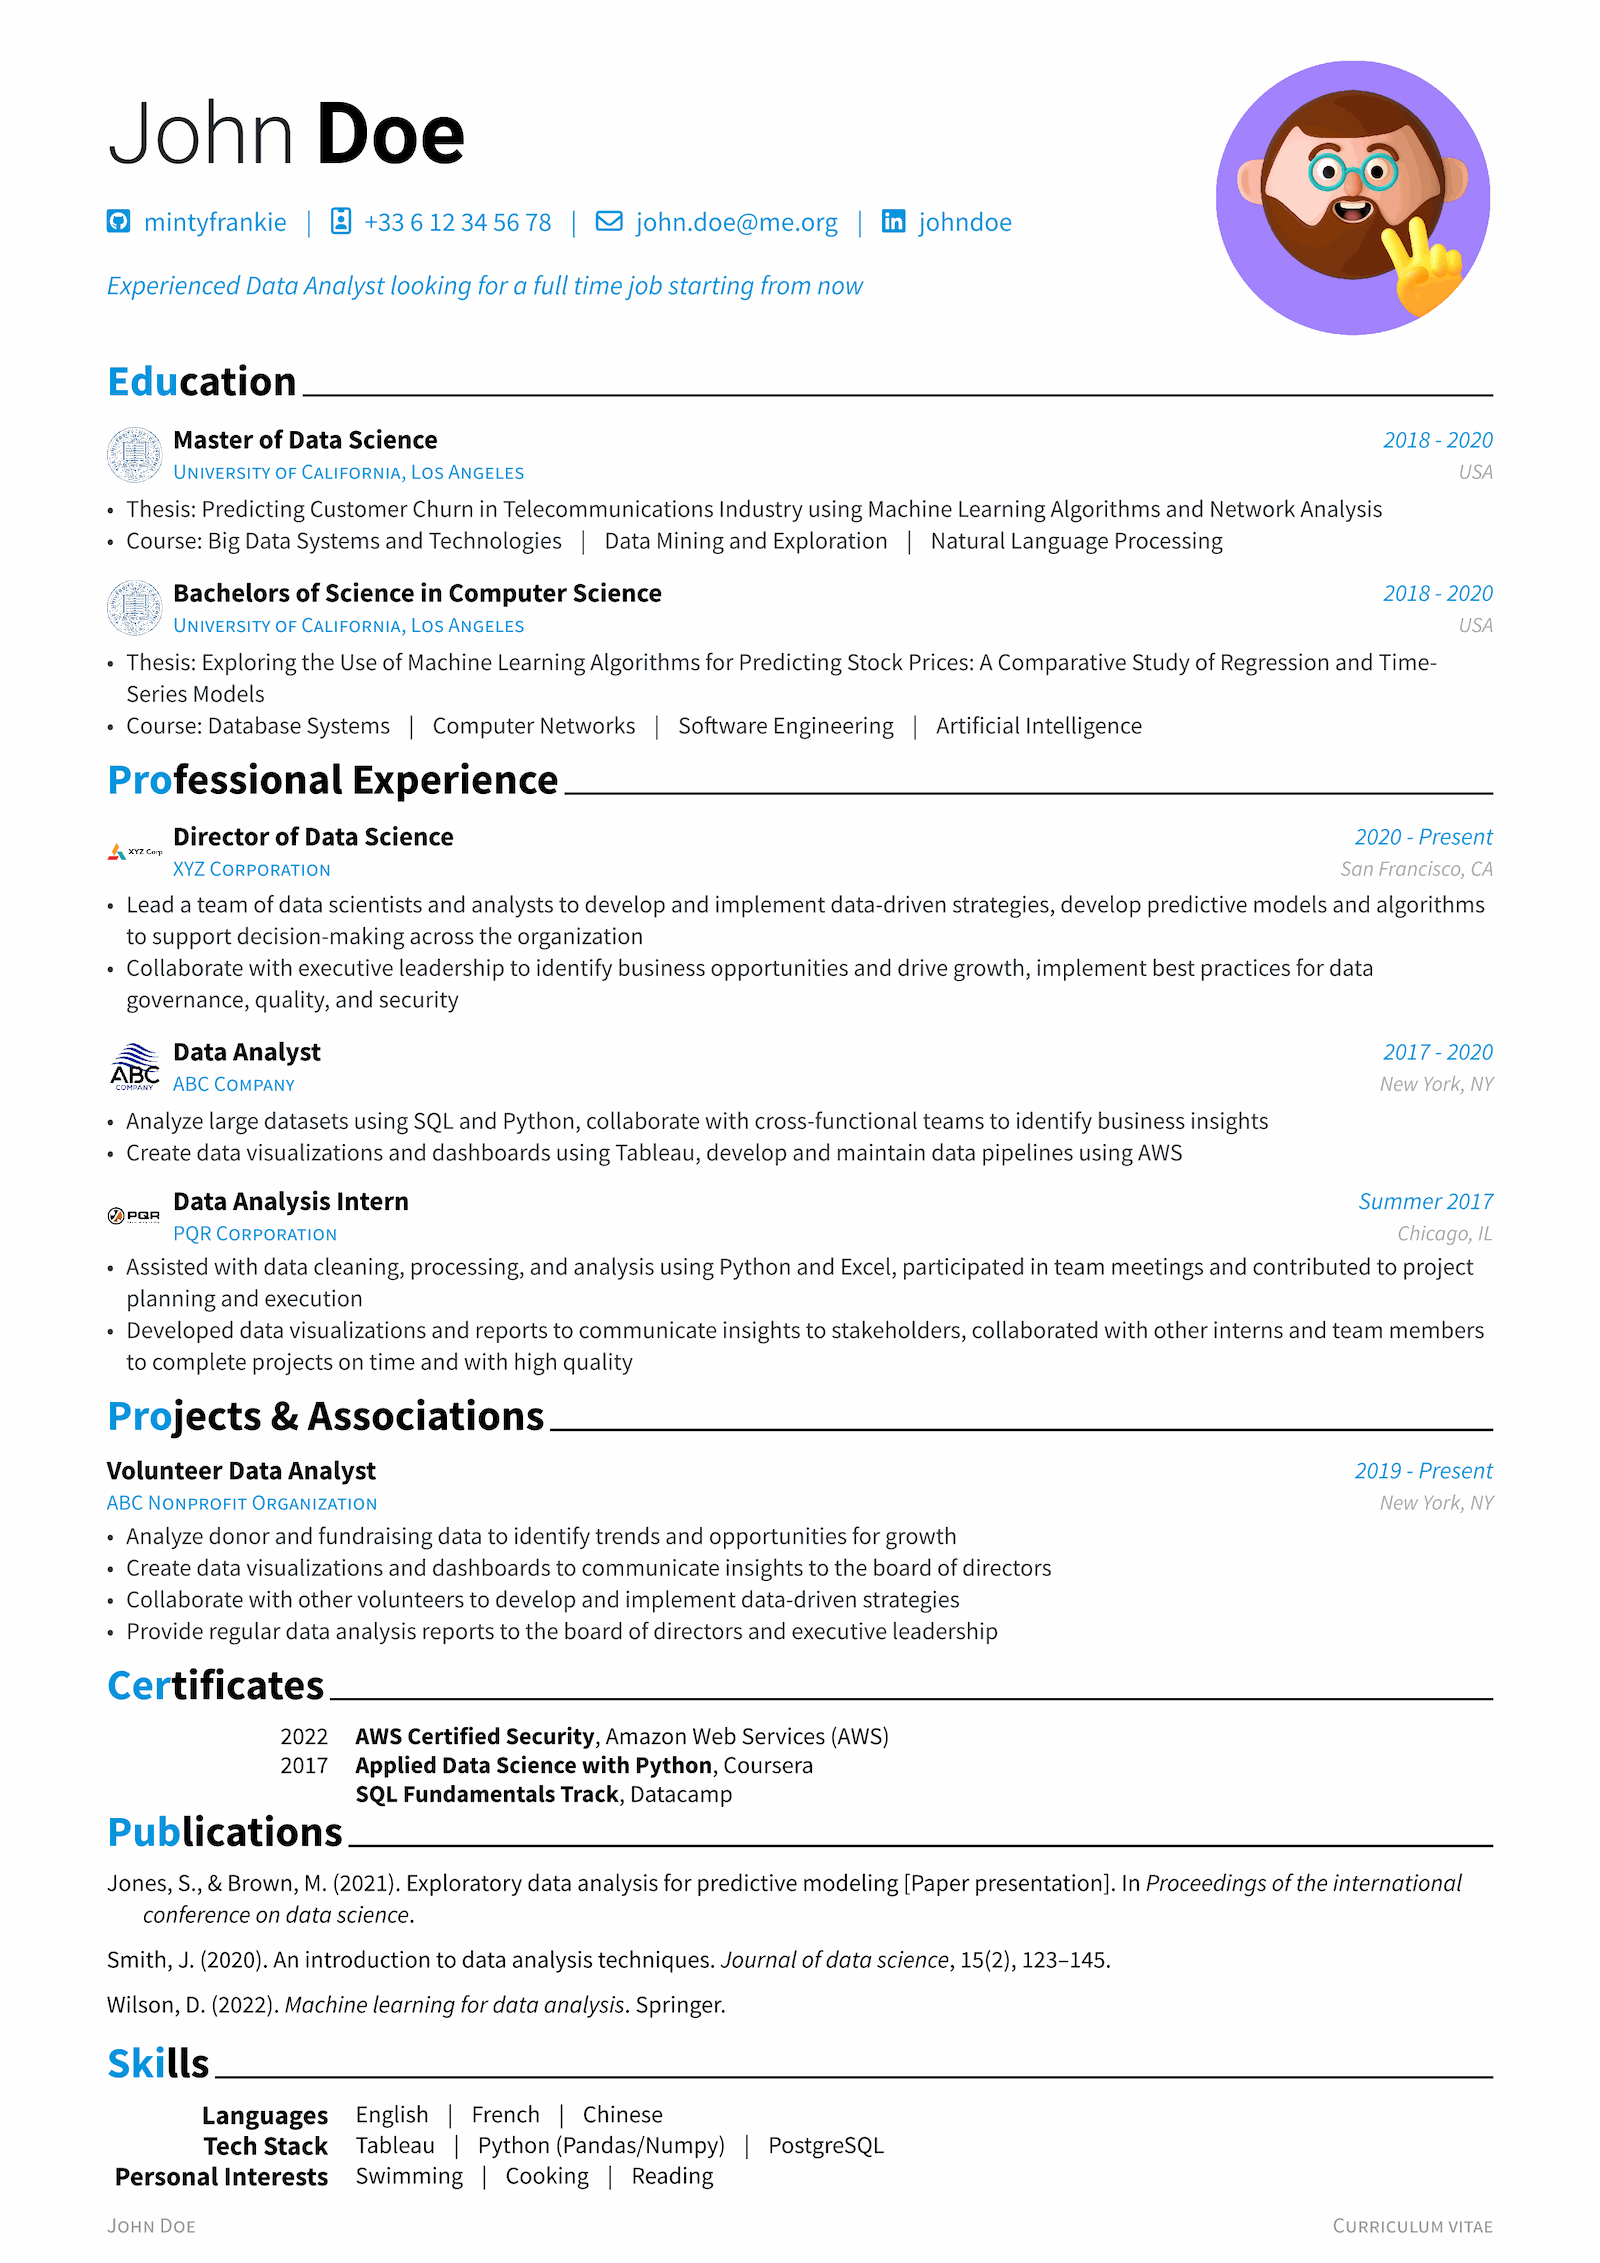
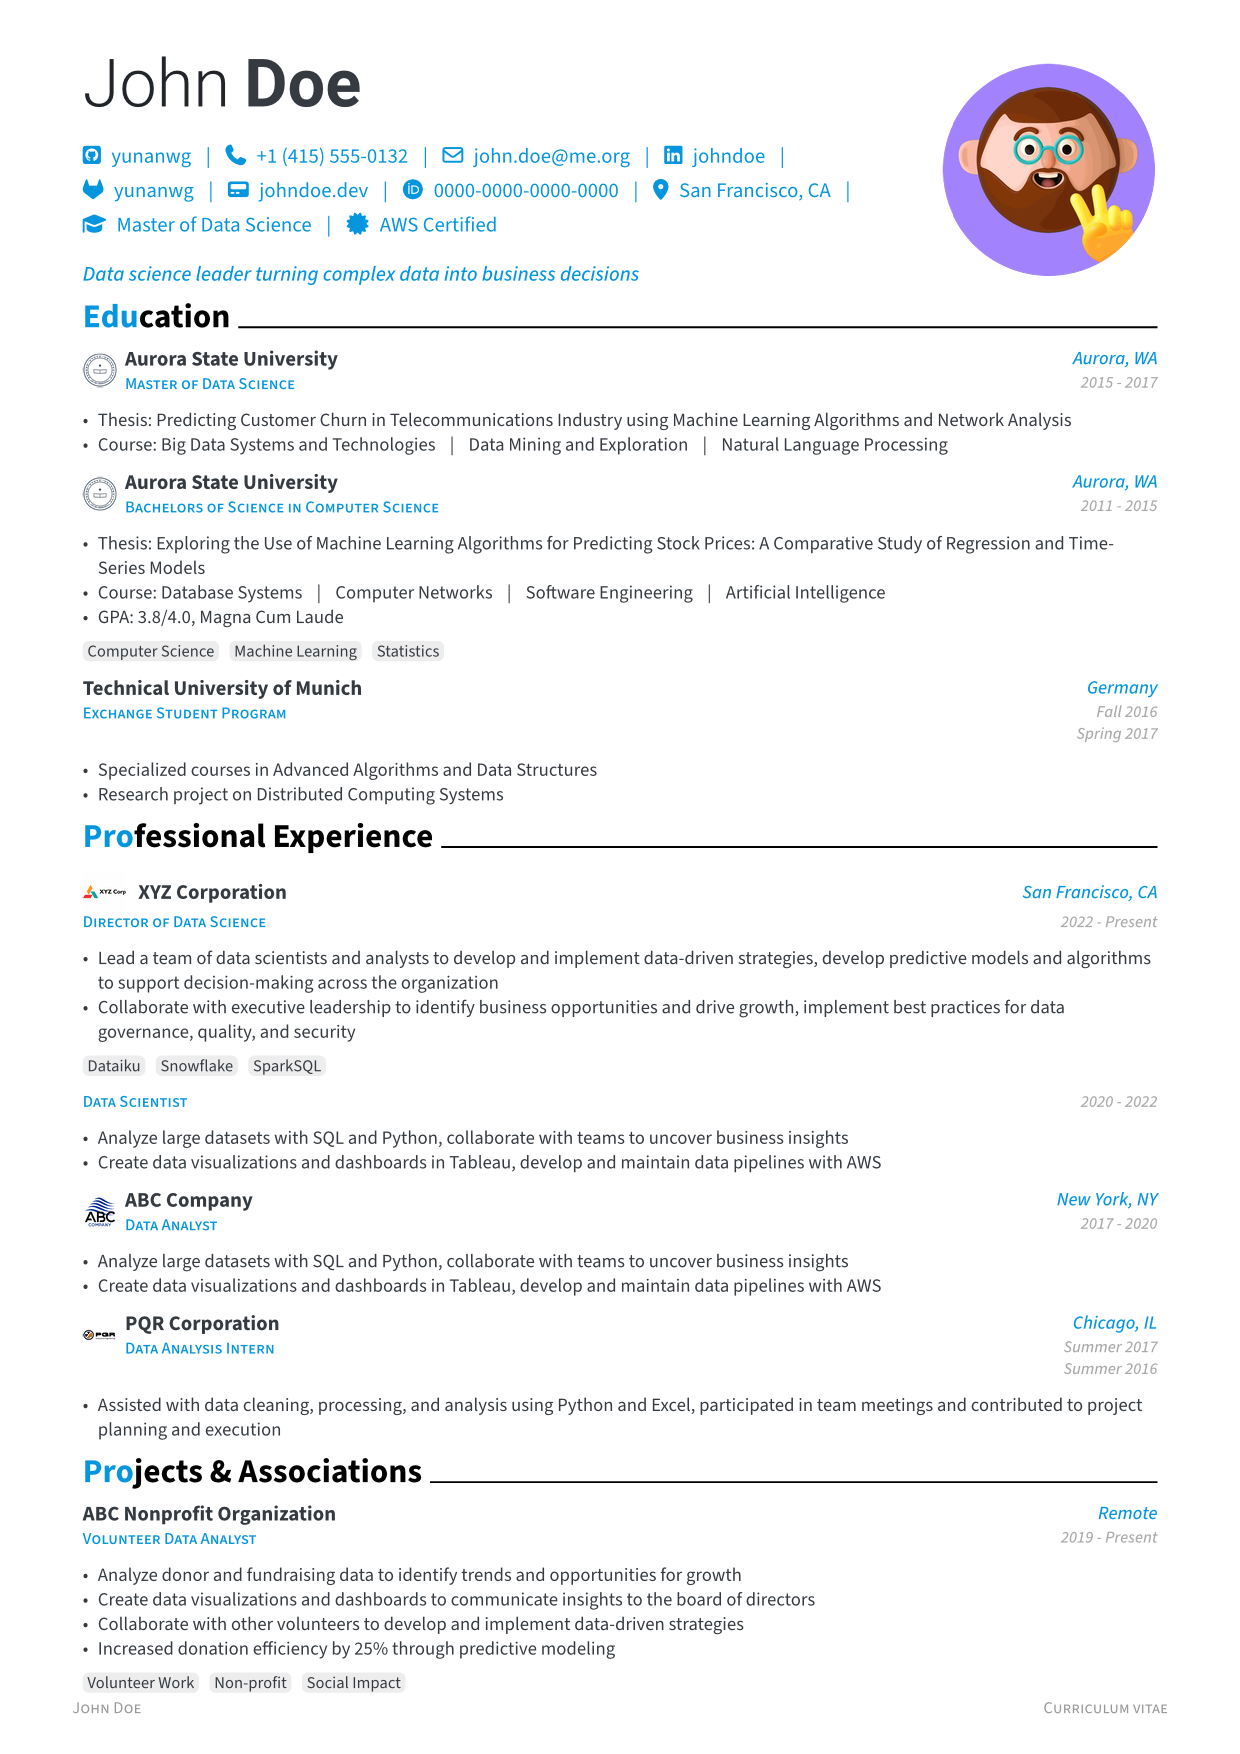
build: generate the thumbnail from the English preview render
thumbnail.png (the Typst Universe thumbnail and the README hero image)
was maintained by hand and had drifted several major versions from the
template: old layout, old handle, old sample data.

scripts/render_previews.sh now copies the English preview (page 1 of
the starter as initialized, 150 PPI, 1240x1754) to thumbnail.png, and
the Update preview images workflow commits it with the previews. A new
guard fails when thumbnail.png is not byte-identical to that render or
breaks the Universe rules (longer edge >= 1080 px, <= 3 MiB).

diff --git a/tests/README.md b/tests/README.md
@@ -65,6 +65,8 @@ A few cross-cutting invariants are cheap to check mechanically and easy to lose 
 
 - **Determinism** — fails if `datetime.today` appears in any `tests/**/test.typ` or `tests/**/fixture.typ` (see "Things that flap pixel diffs" below; comments merely *mentioning* the pattern, e.g. explaining why a fixture pins `date:`, don't count).
 - **Profile parity** — fails if any `template/profile_*/metadata.toml` key path doesn't also exist in `profile_en`, the canonical, docs-driving profile (see AGENTS.md), unless it's in the script's small explicit allowlist of legitimate per-locale keys (e.g. `profile_zh`'s real `personal.display_name` vs. `profile_en`'s commented-out example of the same key).
+- **Starter persona** — fails if an entry in `template/assets/publications.bib` does not list "Doe, John" as an author (see "Starter profile content is read as facts" in AGENTS.md).
+- **Thumbnail** — fails if `thumbnail.png` is not byte-identical to `docs/previews/cv-en.png`, or breaks the Typst Universe rules (longer edge ≥ 1080 px, ≤ 3 MiB). `just previews` regenerates both.
 
 `just test`, `just test-fast`, and CI all run `bash tests/guards.sh` after the tytanic/panic suites. It has no external dependencies, so it's the cheapest thing to run first when chasing a failure.
 

diff --git a/AGENTS.md b/AGENTS.md
@@ -18,6 +18,7 @@ Run `just link` before any local development. This registers the local package w
 | `just test` | Before committing | Full suite: tytanic visual, panic smoke, and query-hook tests. Needs a running Docker daemon |
 | `just test-update` | A layout change moved pixels on purpose | Regenerates ref PNGs in Docker; review the new PNGs before committing |
 | `just fmt-check` | Before committing | typstyle gate, same image as CI |
+| `just previews` | A change alters page 1 of a starter profile (en, fr, zh) | Regenerates the README previews and `thumbnail.png` in Docker; the Update preview images workflow does the same on the CI runner |
 | `just docs-generate` | You changed doc-comments in `src/` or comments in `template/profile_en/metadata.toml` | Regenerates the two generated pages |
 | `just verify-release` | Preparing a release | Full pre-release contract |
 
